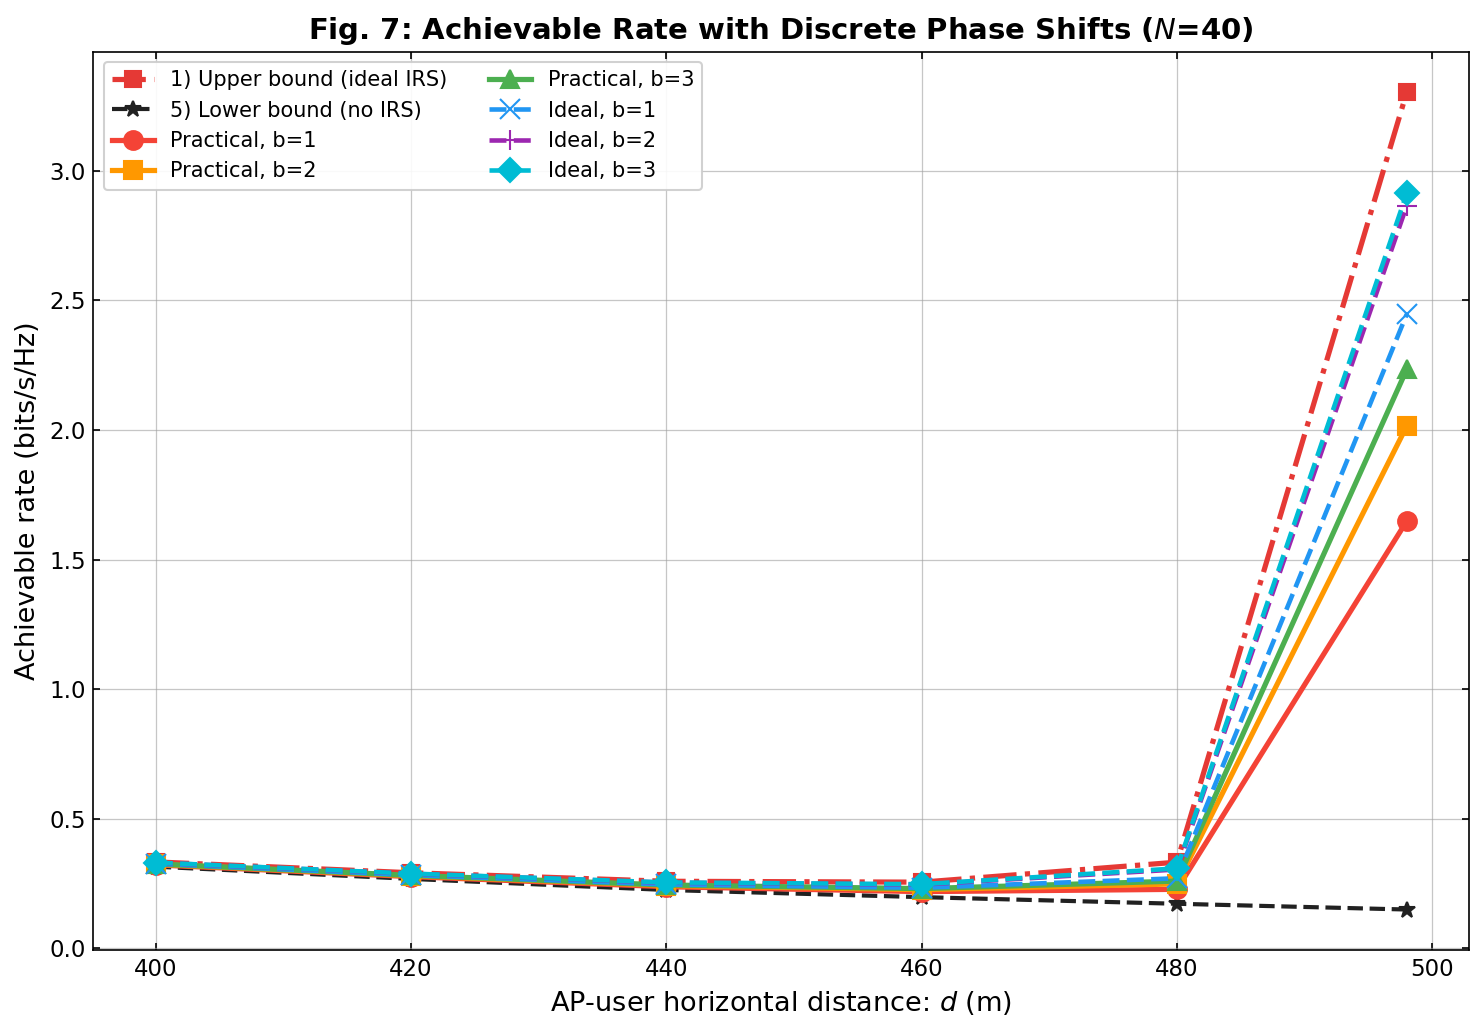
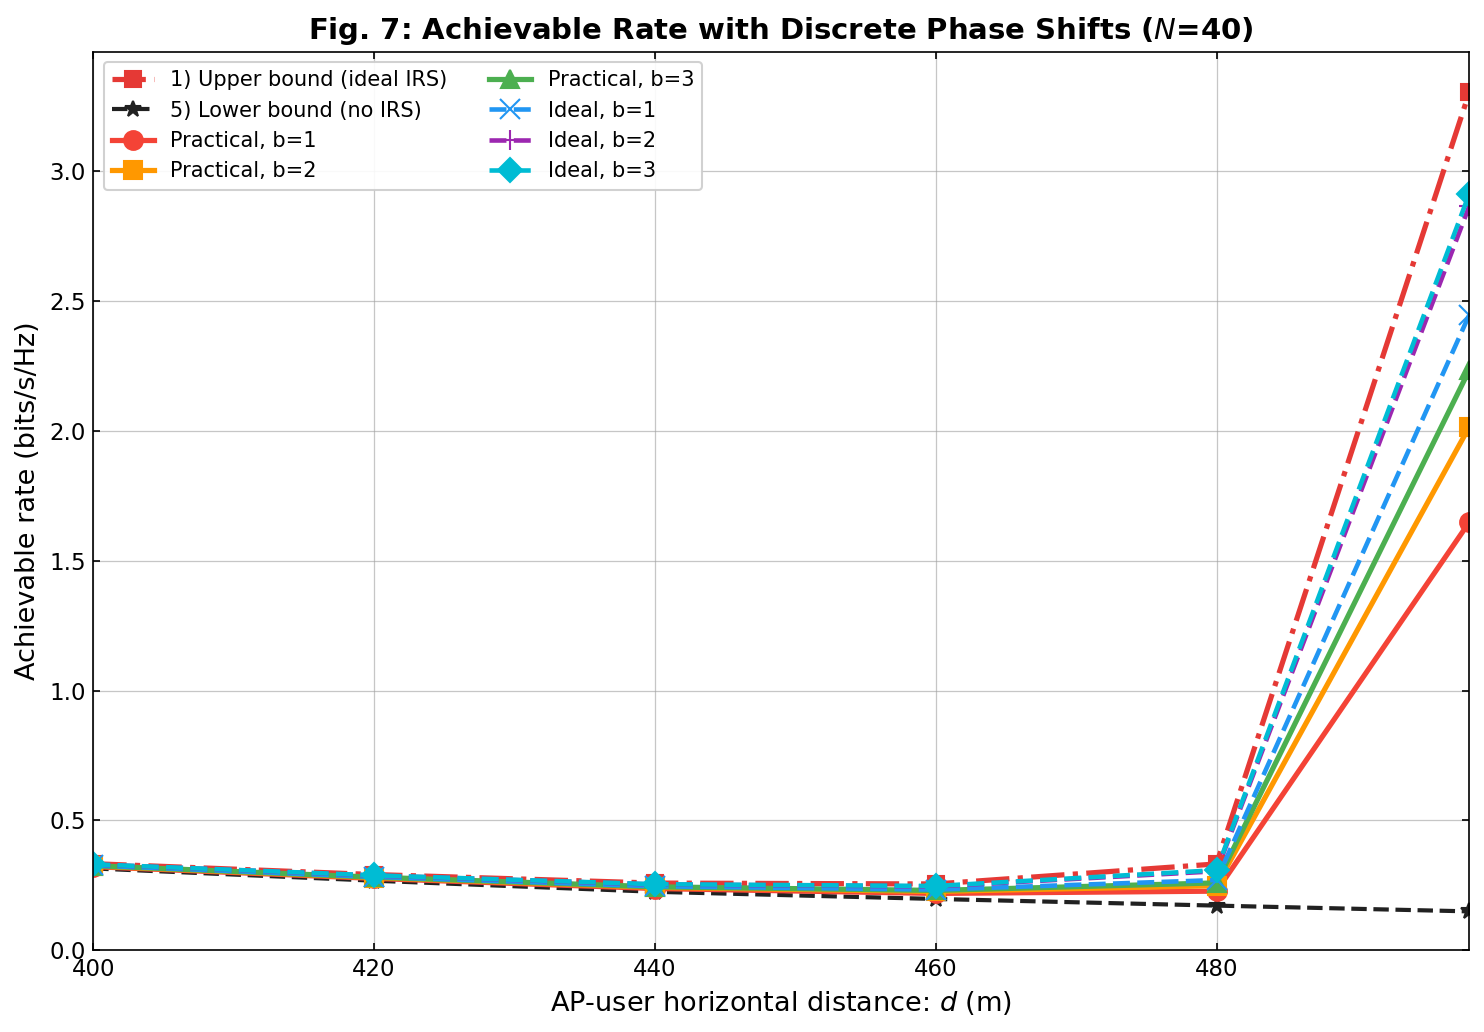
Align plot grids exactly with axes bounding box

diff --git a/plot_results.py b/plot_results.py
@@ -64,6 +64,10 @@ def _setup_axes(ax, xlabel, ylabel, title=None):
     # Y-axis intervals of 0.5
     ax.yaxis.set_major_locator(ticker.MultipleLocator(0.5))
     
+    # Align the first and last grid lines exactly with the bounding box spines
+    ax.margins(x=0)
+    ax.set_ylim(bottom=0)
+    
     # Neater grids: solid light major grid only, explicitly turn off minor grid
     ax.grid(False, which='minor')
     ax.grid(True, which='major', linestyle='-', linewidth=0.6, alpha=0.6, color='#A0A0A0')

diff --git a/README.md b/README.md
@@ -48,7 +48,7 @@ Here are the simulation results demonstrating the performance of the various alg
 
 Demonstrates how the system performs as the distance between the Access Point and the user increases.
 <p align="center">
-  <img src="assets/fig5_rate_vs_distance.png?v=3" alt="Rate vs Distance" width="600"/>
+  <img src="assets/fig5_rate_vs_distance.png?v=4" alt="Rate vs Distance" width="600"/>
 </p>
 
 #### Detailed Result Table (Fig. 5)
@@ -67,7 +67,7 @@ Demonstrates how the system performs as the distance between the Access Point an
 
 Illustrates the scaling behavior of the achievable rate as more IRS elements are added.
 <p align="center">
-  <img src="assets/fig6_rate_vs_N.png?v=3" alt="Rate vs N" width="600"/>
+  <img src="assets/fig6_rate_vs_N.png?v=4" alt="Rate vs N" width="600"/>
 </p>
 
 #### Detailed Result Table (Fig. 6)
@@ -86,7 +86,7 @@ Illustrates the scaling behavior of the achievable rate as more IRS elements are
 
 Evaluates the performance degradation when the IRS is constrained to low-resolution discrete phase shifts (e.g., 1-bit, 2-bit, or 3-bit).
 <p align="center">
-  <img src="assets/fig7_discrete_phases.png?v=3" alt="Discrete Phase Shifts" width="600"/>
+  <img src="assets/fig7_discrete_phases.png?v=4" alt="Discrete Phase Shifts" width="600"/>
 </p>
 
 #### Detailed Result Table (Fig. 7)